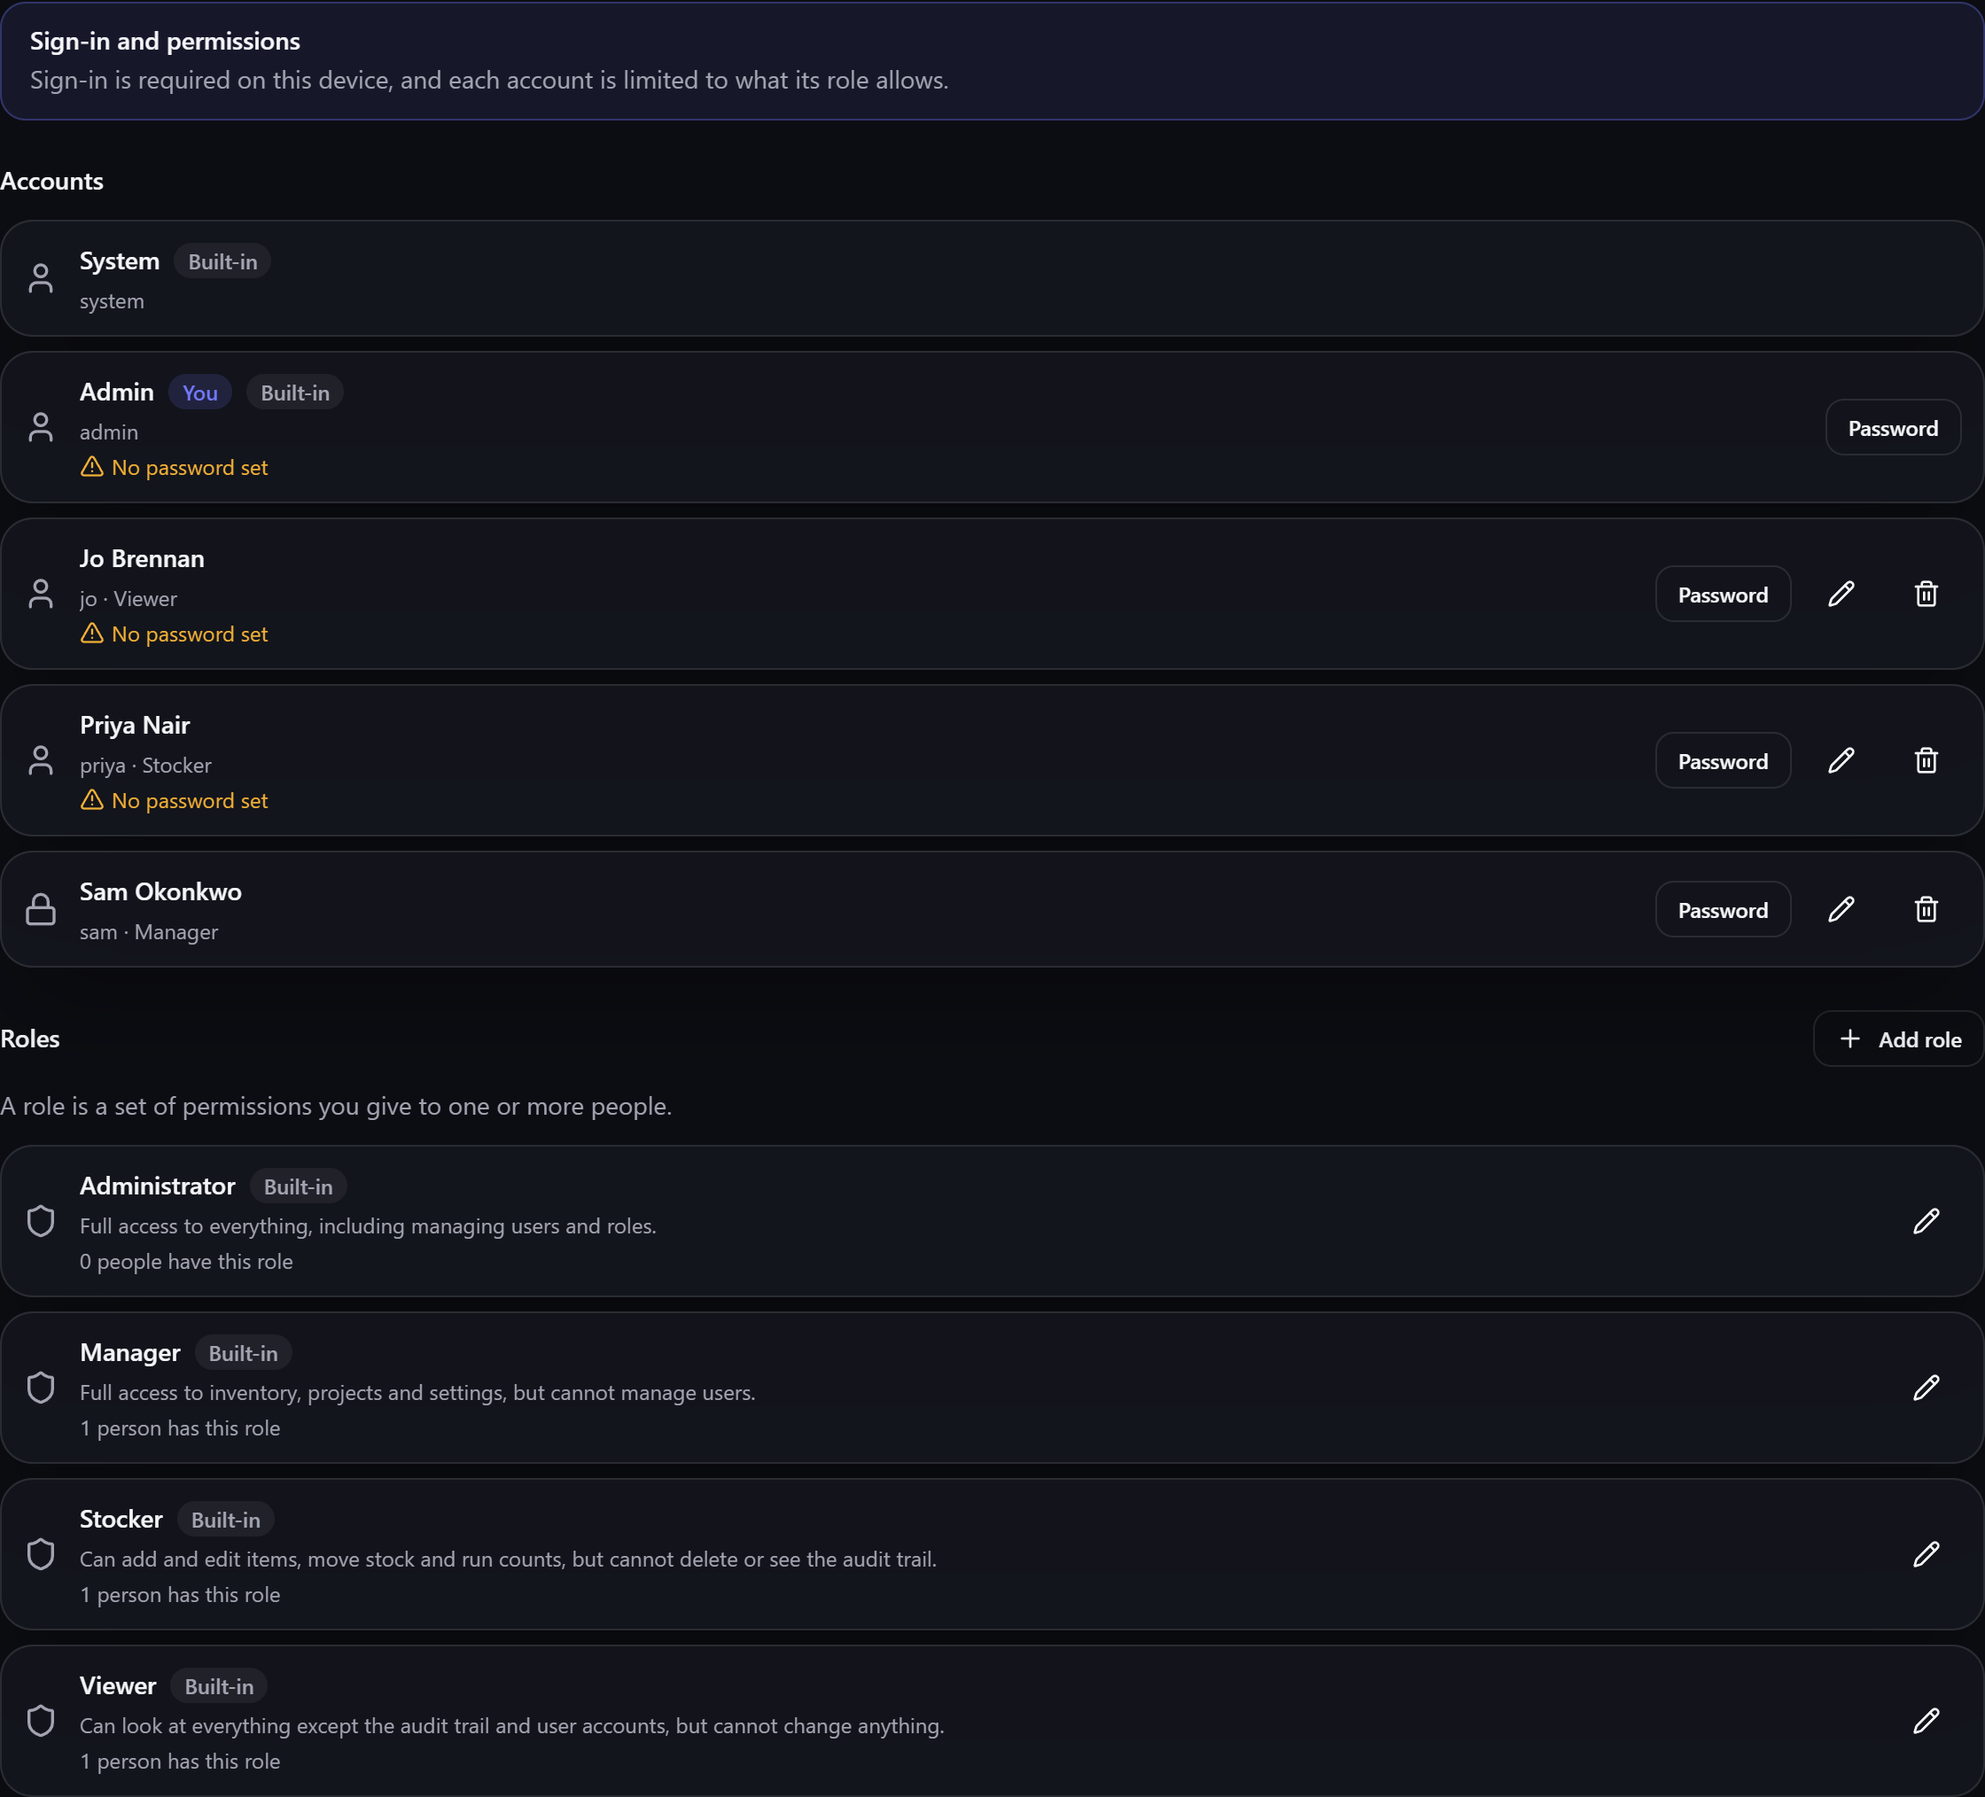
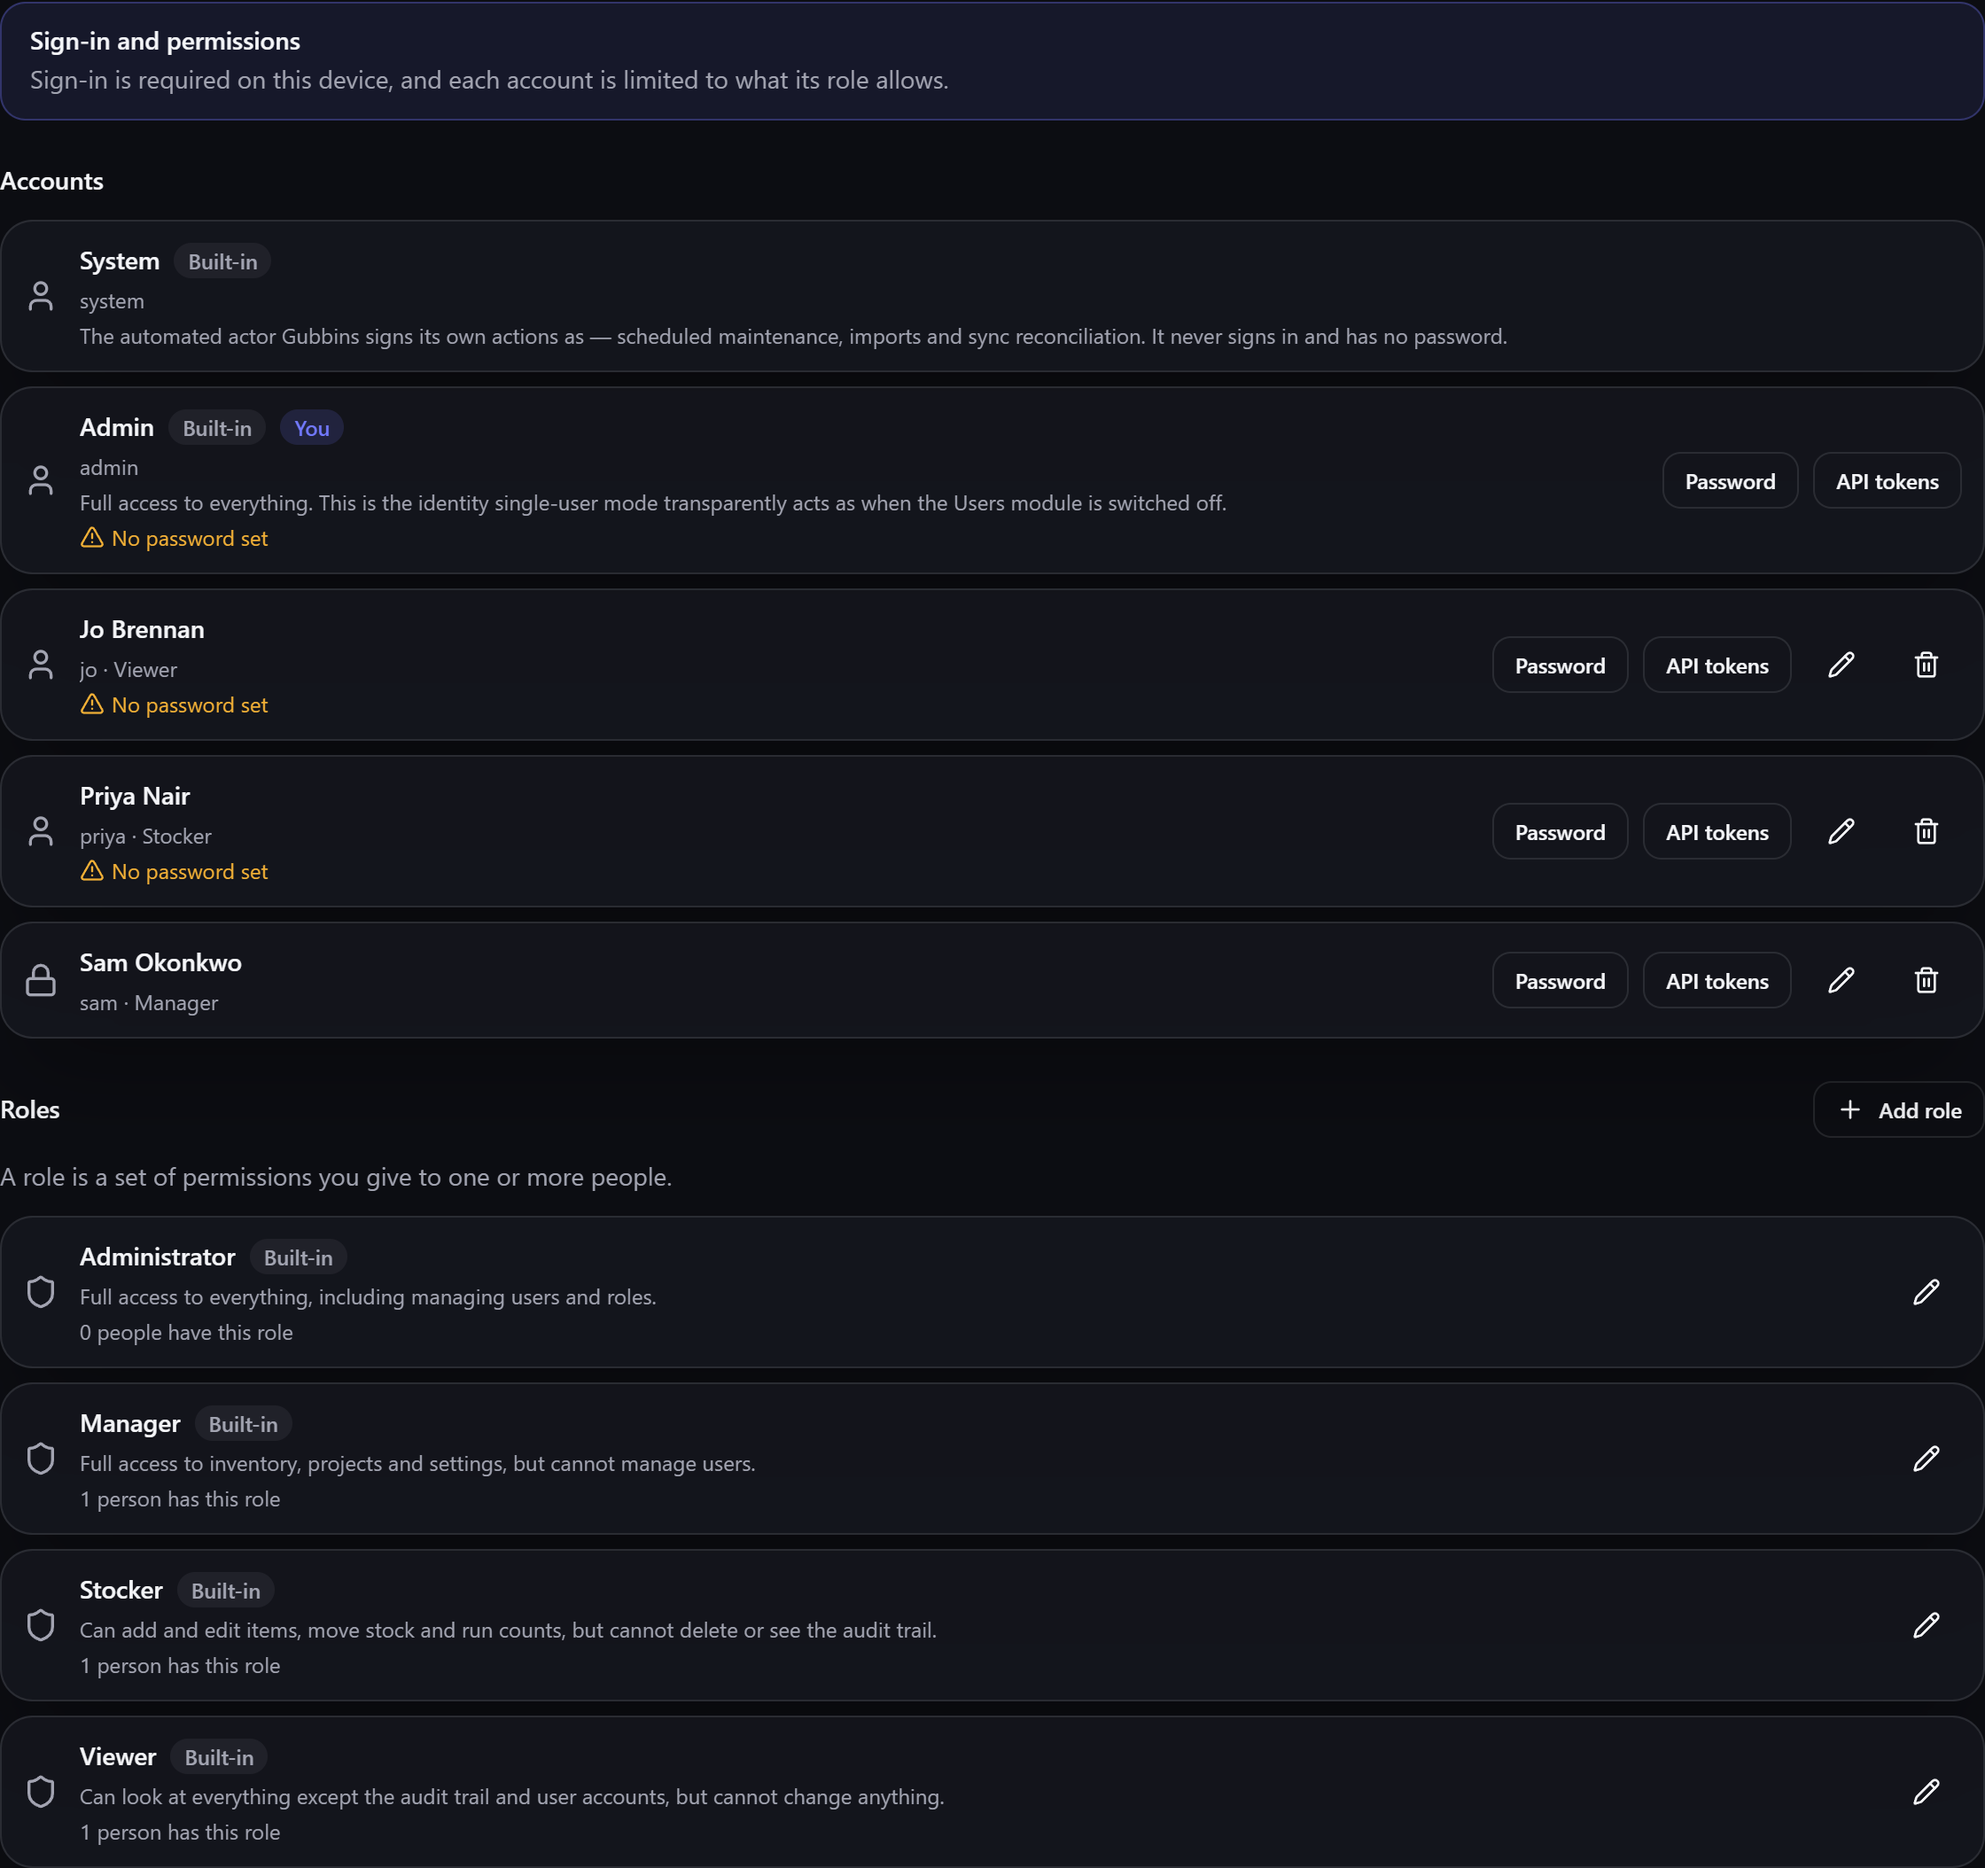
Describe the System and Admin accounts' purpose on the Users screen
Both built-in accounts previously showed only a username on their row, leaving
their purpose unstated. Add a short, translated description under each
explaining what it is for (System: the automated actor; Admin: full access,
the identity single-user mode acts as).

diff --git a/src/features/users/UsersScreen.tsx b/src/features/users/UsersScreen.tsx
@@ -32,7 +32,7 @@ import {
   UsersIcon,
   WarningIcon,
 } from '@/components/icons';
-import { useT } from '@/features/i18n';
+import { useT, type TypedTranslator } from '@/features/i18n';
 import { useErrorMessage } from '@/features/errors';
 import { useFeature } from '@/features/modules/useFeature';
 import { useSessionStore } from '@/state/stores/useSessionStore';
@@ -60,6 +60,18 @@ import { RoleFormDialog, type RoleFormValues } from './components/RoleFormDialog
 /** Whether a row is one of the two seeded principals, which the schema protects from edits. */
 function isBuiltin(user: User): boolean {
   return BUILTIN_USER_IDS.includes(user.id as (typeof BUILTIN_USER_IDS)[number]);
+}
+
+/**
+ * What a built-in account is *for*, in the active language — `null` for an ordinary account.
+ * There is no stored `description` column for users (unlike roles): System and Admin are the
+ * only accounts this ever applies to, neither is editable, so the copy lives in the catalog
+ * rather than a column nothing else would ever write to.
+ */
+function builtinUserDescription(user: User, t: TypedTranslator): string | null {
+  if (user.kind === 'system') return t('users.builtin.system.description');
+  if (user.kind === 'admin') return t('users.builtin.admin.description');
+  return null;
 }
 
 export function UsersScreen() {
@@ -502,6 +514,7 @@ function UserRow({
   // System is an actor rather than a person: it never signs in, so a password control on its row
   // would offer something the repository and the schema trigger both refuse.
   const isSystem = user.kind === 'system';
+  const description = builtinUserDescription(user, t);
 
   return (
     <Surface className="flex flex-wrap items-center gap-3 p-3">
@@ -536,6 +549,8 @@ function UserRow({
           {user.username}
           {roleName ? ` · ${roleName}` : ''}
         </p>
+
+        {description ? <p className="text-xs text-muted-foreground">{description}</p> : null}
 
         {/* The no-password warning the plan (§1.1) requires on this list, worded exactly as the
             sign-in tile words it so the two surfaces cannot drift apart. System is exempt: it has

diff --git a/src/features/users/UsersScreen.test.tsx b/src/features/users/UsersScreen.test.tsx
@@ -196,6 +196,25 @@ describe('UsersScreen — accounts', () => {
     expect(within(rowFor('Sam Okafor')).getByText('Sign-in turned off')).toBeInTheDocument();
   });
 
+  it('describes the System and Admin accounts’ purpose, since neither can be edited to say so', () => {
+    usersResult.data = {
+      rows: [
+        user({ id: SYSTEM_USER_ID, displayName: 'System', kind: 'system', hasPassword: false }),
+        user({ id: ADMIN_USER_ID, username: 'admin', displayName: 'Admin', kind: 'admin' }),
+      ],
+    };
+    render(<UsersScreen />);
+
+    expect(within(rowFor('System')).getByText(/automated actor/)).toBeInTheDocument();
+    expect(within(rowFor('Admin')).getByText(/single-user mode/)).toBeInTheDocument();
+  });
+
+  it('has no description for an ordinary account', () => {
+    usersResult.data = { rows: [user()] };
+    render(<UsersScreen />);
+    expect(within(rowFor('Sam Okafor')).queryByText(/single-user mode|automated actor/)).toBeNull();
+  });
+
   it('shows an error instead of an empty list when the accounts fail to load', () => {
     // "No accounts" would be a lie that reads like success and hides a real failure.
     usersResult.isError = true;
